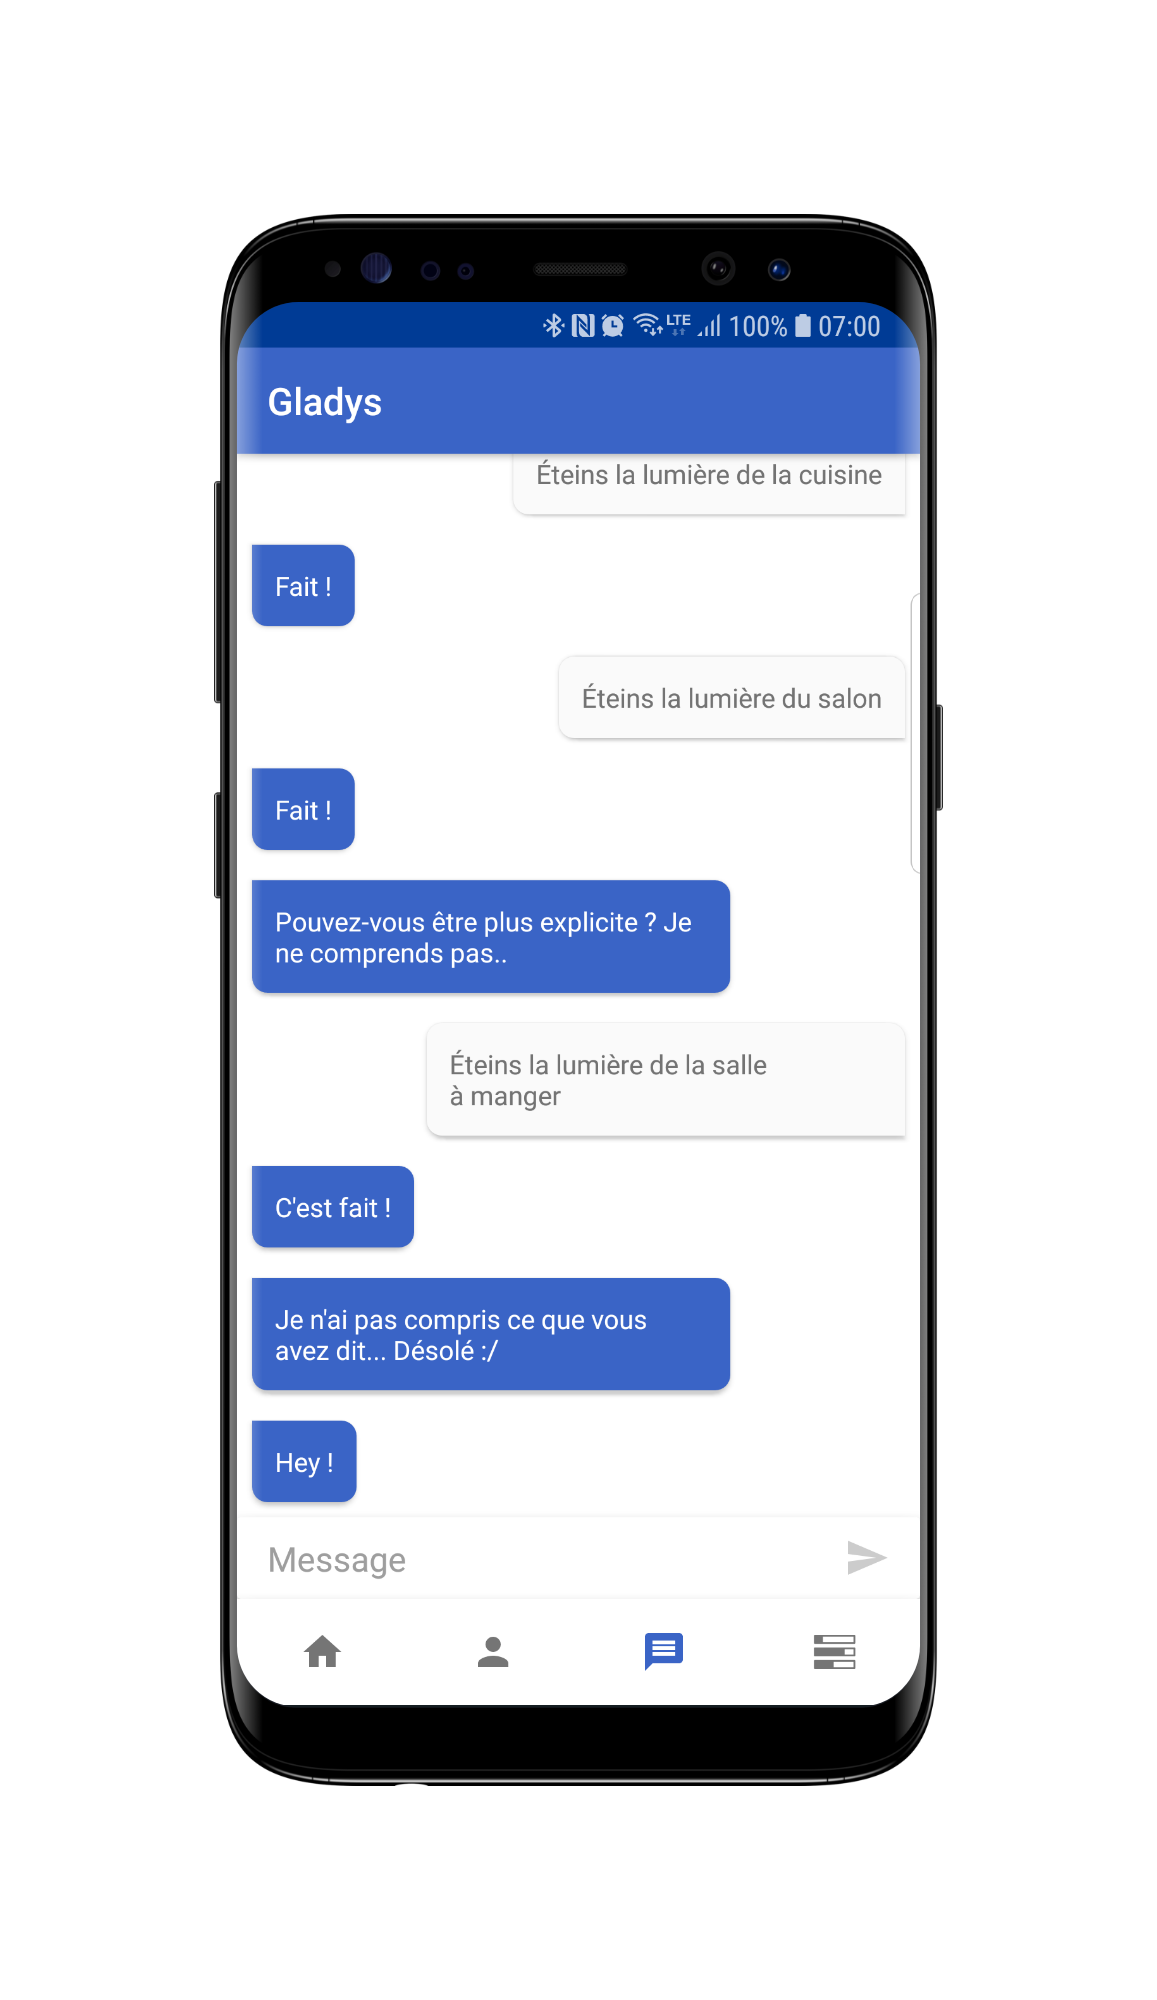
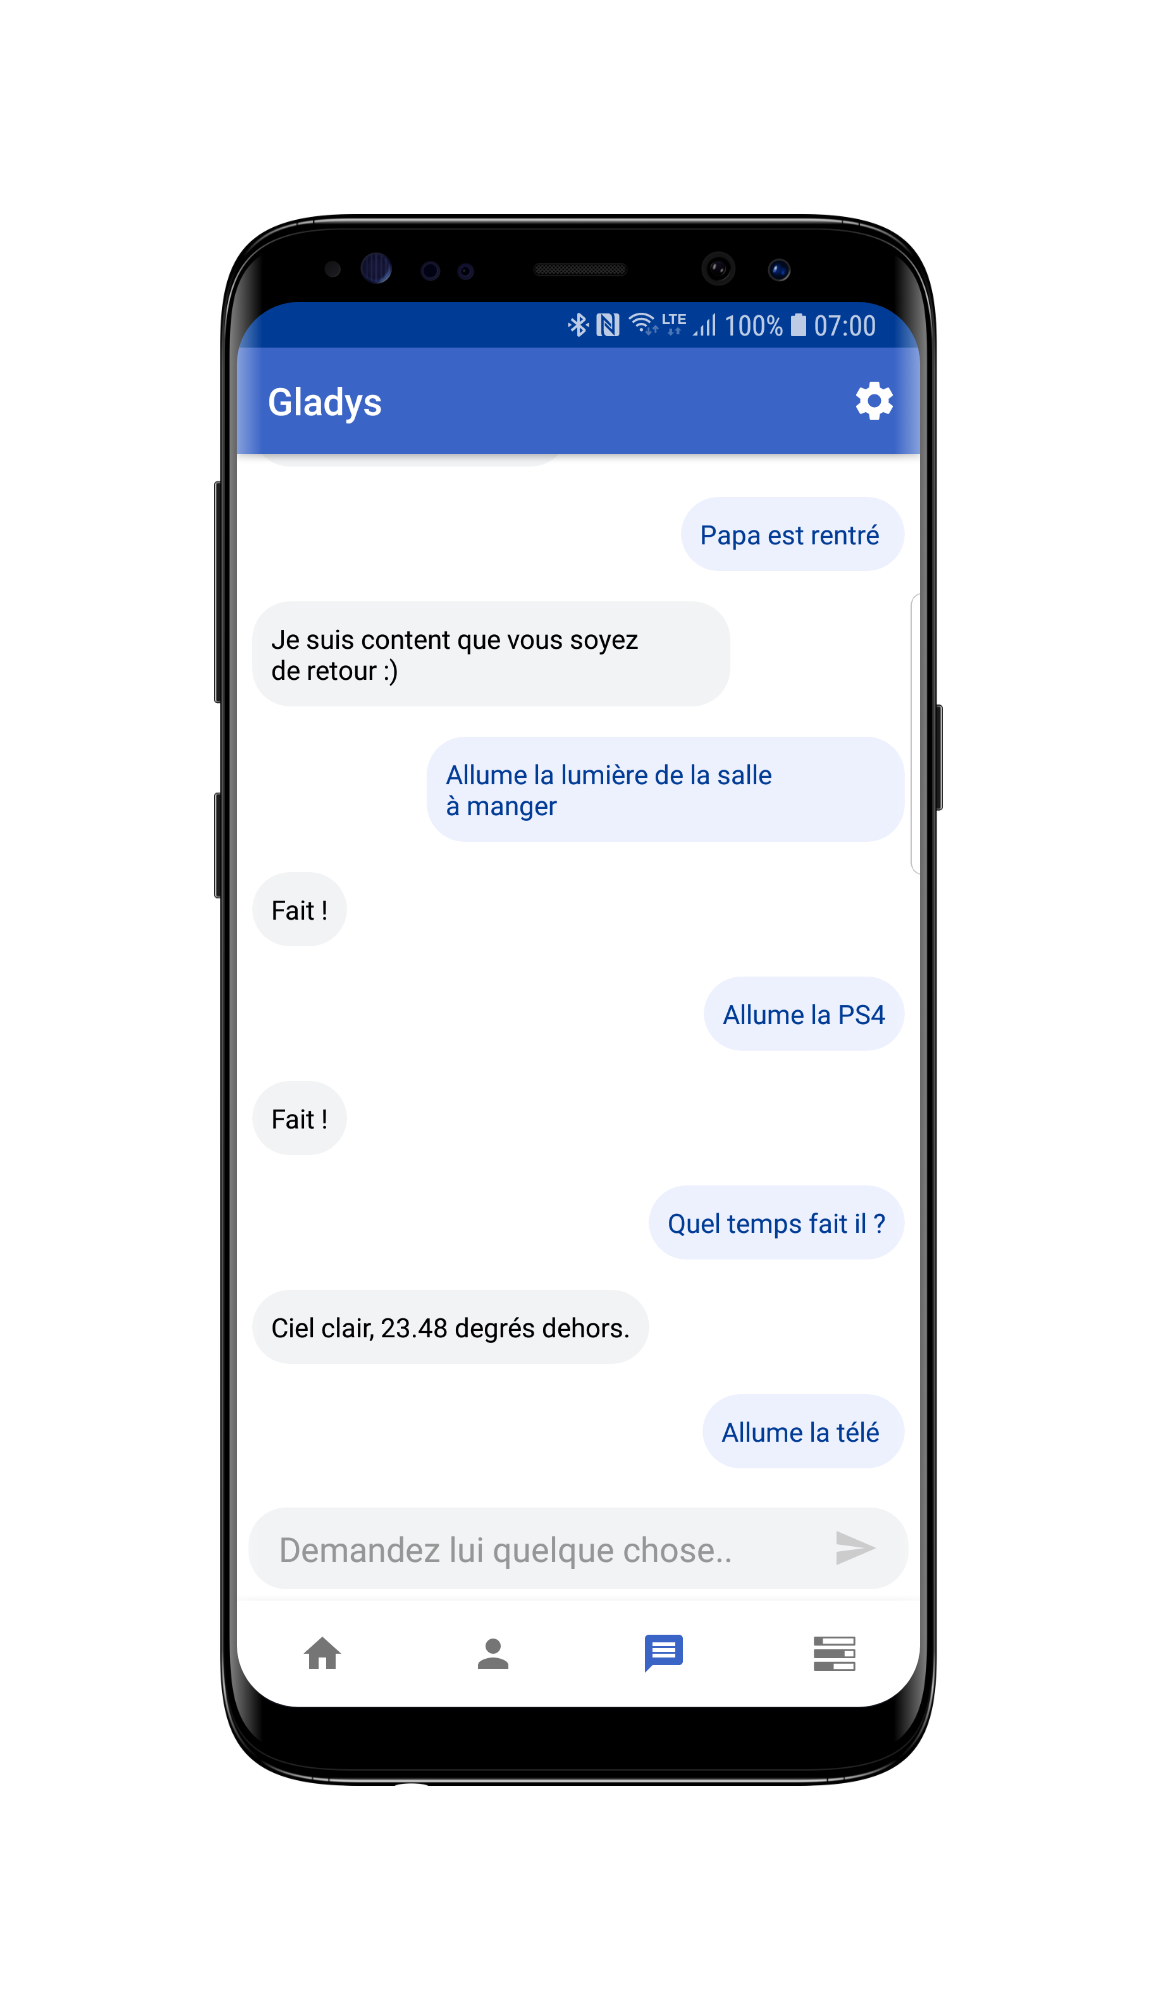
Improve chat view, improve splashscreen, add shortcuts and update chat mockup

diff --git a/app/src/main/java/com/gladysproject/gladys/fragments/ChatFragment.kt b/app/src/main/java/com/gladysproject/gladys/fragments/ChatFragment.kt
@@ -1,10 +1,17 @@
 package com.gladysproject.gladys.fragments
 
+import android.graphics.PorterDuff
+import android.graphics.PorterDuffColorFilter
 import android.os.Bundle
 import android.preference.PreferenceManager
 import android.support.v4.app.Fragment
+import android.support.v4.content.ContextCompat.getColor
 import android.support.v7.widget.LinearLayoutManager
+import android.text.Editable
+import android.text.TextWatcher
 import android.view.*
+import android.view.View.OnTouchListener
+import android.widget.TextView
 import com.gladysproject.gladys.R
 import com.gladysproject.gladys.adapters.MessageAdapter
 import com.gladysproject.gladys.models.Message
@@ -54,9 +61,24 @@ class ChatFragment : Fragment() {
 
         getMessages()
 
-        send_button.setOnClickListener {
-            if (message.text.isNotEmpty() || message.text != null) sendMessage(message.text.toString())
-        }
+        message.setOnTouchListener(OnTouchListener { _, event ->
+            if (event.action == MotionEvent.ACTION_UP) {
+                if (event.rawX >= message.right - message.compoundDrawables[2].bounds.width()) {
+                    if (message.text.isNotEmpty() || message.text != null) sendMessage(message.text.toString())
+                    return@OnTouchListener false
+                }
+            }
+            false
+        })
+
+        message.addTextChangedListener(object : TextWatcher {
+            override fun beforeTextChanged(p0: CharSequence?, p1: Int, p2: Int, p3: Int) {
+                if (p3 == 0) {setTextViewDrawableColor(message, R.color.secondaryDarkColor)}
+                else if (p3 == 1) {setTextViewDrawableColor(message, R.color.primaryColor)}
+            }
+            override fun afterTextChanged(p0: Editable?) {}
+            override fun onTextChanged(s: CharSequence, start: Int, before: Int, count: Int) {}
+        })
 
         /** Scrolling to bottom when the keyboard is opened */
         chat_rv.addOnLayoutChangeListener{_: View, _: Int, _: Int, _: Int, _: Int, _: Int, _: Int, _: Int, _: Int ->
@@ -123,6 +145,15 @@ class ChatFragment : Fragment() {
             adapter = MessageAdapter(data)
             chat_rv.adapter = adapter
             chat_rv.scrollToPosition(adapter.itemCount -1)
+        }
+    }
+
+    private fun setTextViewDrawableColor(textView: TextView, color: Int) {
+        for (drawable in textView.compoundDrawables) {
+            if (drawable != null){
+                drawable.clearColorFilter()
+                drawable.colorFilter = PorterDuffColorFilter(getColor(context!!, color), PorterDuff.Mode.SRC_IN)
+            }
         }
     }
 

diff --git a/app/src/main/java/com/gladysproject/gladys/MainActivity.kt b/app/src/main/java/com/gladysproject/gladys/MainActivity.kt
@@ -20,6 +20,7 @@ import org.json.JSONObject
 class MainActivity : AppCompatActivity() {
 
     private lateinit var socket: Socket
+    private val startChat = "com.gladysproject.gladys.startChat"
 
     private val mOnNavigationItemSelectedListener = BottomNavigationView.OnNavigationItemSelectedListener { item ->
         when (item.itemId) {
@@ -48,7 +49,14 @@ class MainActivity : AppCompatActivity() {
         setContentView(R.layout.activity_main)
         navigation.setOnNavigationItemSelectedListener(mOnNavigationItemSelectedListener)
         connectSocket()
-        openFragment(HomeFragment.newInstance())
+
+        if (startChat == intent.action){
+            openFragment(ChatFragment.newInstance())
+            navigation.selectedItemId = R.id.message
+        }else{
+            openFragment(HomeFragment.newInstance())
+        }
+
     }
 
     private fun openFragment(fragment: Fragment) {

diff --git a/app/src/main/java/com/gladysproject/gladys/fragments/TimelineFragment.kt b/app/src/main/java/com/gladysproject/gladys/fragments/TimelineFragment.kt
@@ -59,7 +59,7 @@ class TimelineFragment : Fragment() {
         token = PreferenceManager.getDefaultSharedPreferences(context).getString("token", "")!!
         userId = PreferenceManager.getDefaultSharedPreferences(context).getString("user_id", "1")!!
         houseId = PreferenceManager.getDefaultSharedPreferences(context).getString("house_id", "1")!!
-        user_name.text = PreferenceManager.getDefaultSharedPreferences(context).getString("user_firstname", "1")!! + " " + PreferenceManager.getDefaultSharedPreferences(context).getString("user_name", "1")!!
+        user_name.text = PreferenceManager.getDefaultSharedPreferences(context).getString("user_firstname", "John")!! + " " + PreferenceManager.getDefaultSharedPreferences(context).getString("user_name", "Pepperwood")!!
         datetime.text = getCurrentDate()
 
         getEvents()

diff --git a/app/src/main/java/com/gladysproject/gladys/SplashActivity.kt b/app/src/main/java/com/gladysproject/gladys/SplashActivity.kt
@@ -1,22 +1,16 @@
 package com.gladysproject.gladys
 
 import android.os.Bundle
-import android.app.Activity
 import android.content.Intent
-import android.os.Handler
+import android.support.v7.app.AppCompatActivity
 
-import kotlinx.android.synthetic.main.activity_splash.*
-
-class SplashActivity : Activity() {
+class SplashActivity : AppCompatActivity() {
 
     override fun onCreate(savedInstanceState: Bundle?) {
         super.onCreate(savedInstanceState)
-        setContentView(R.layout.activity_splash)
-
-        Handler().postDelayed({
-            val intent = Intent(this@SplashActivity, MainActivity::class.java)
-            startActivity(intent)
-        }, 2000)
+        val intent = Intent(this@SplashActivity, MainActivity::class.java)
+        startActivity(intent)
+        finish()
     }
 
 }
